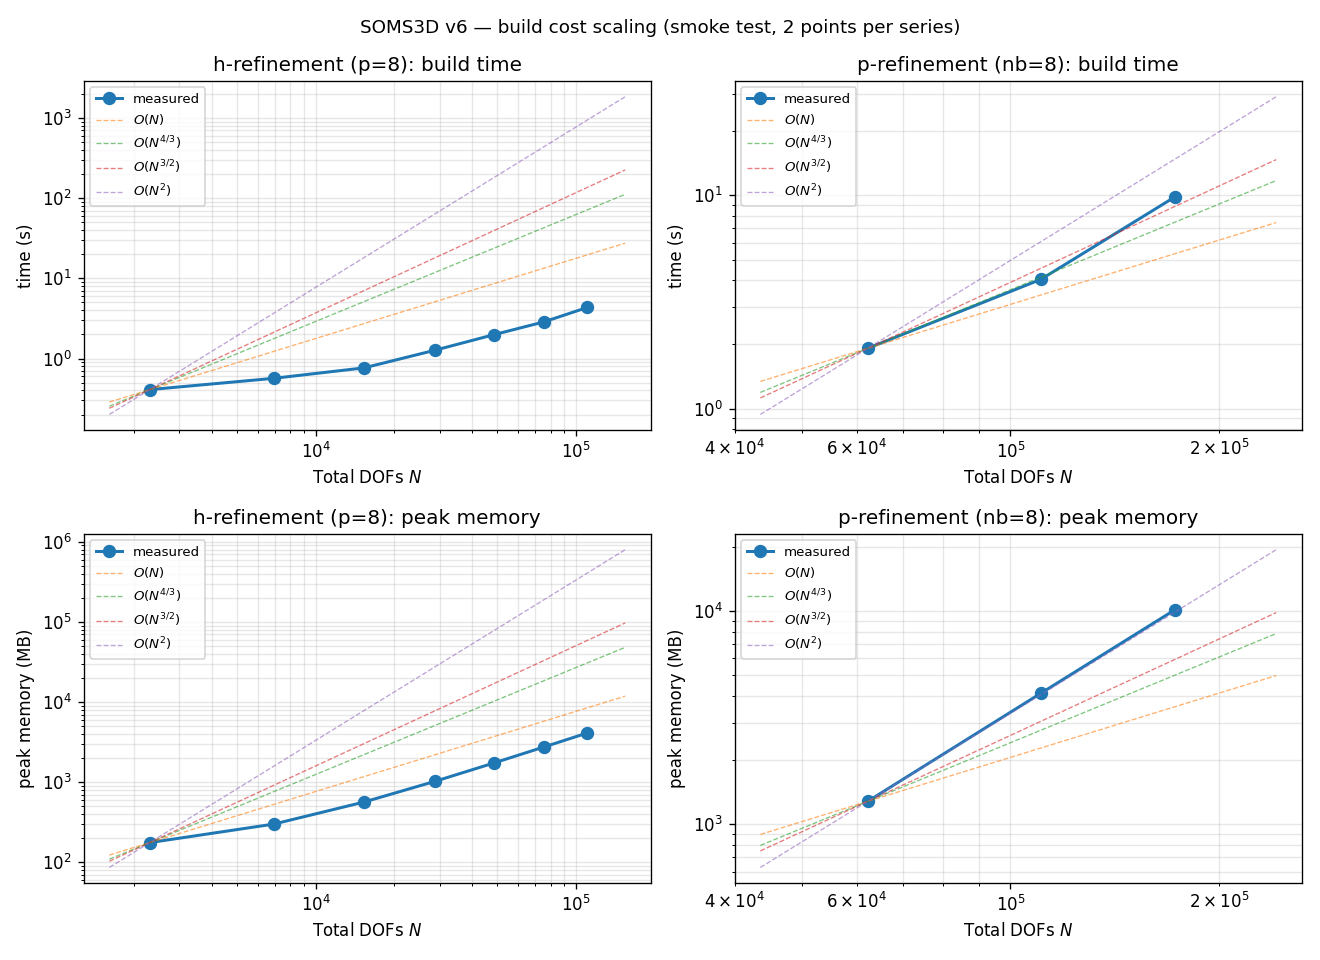
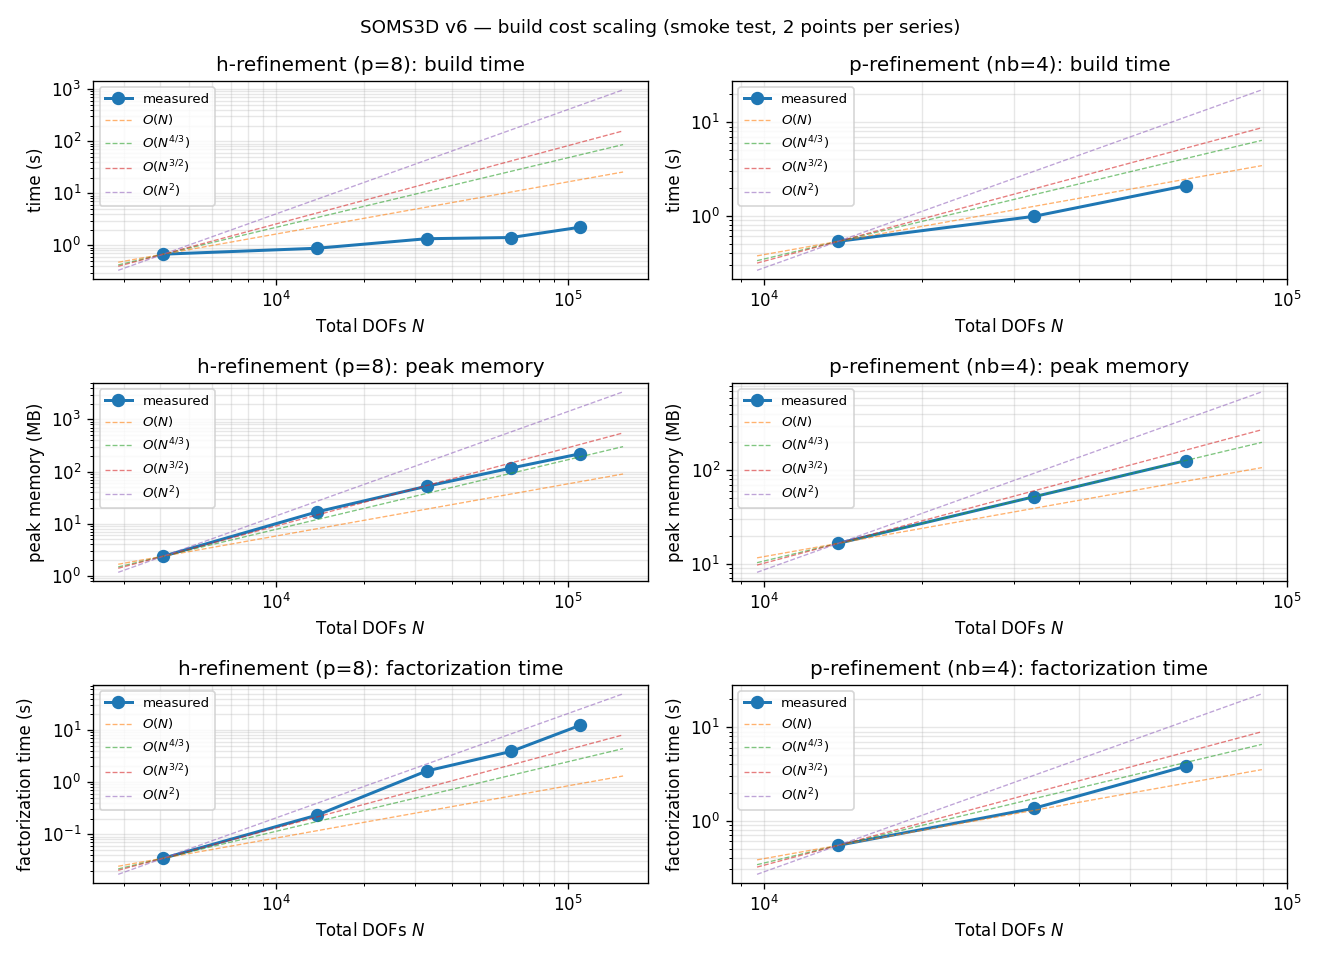
further improvements to SOMSsolver + benchmarking factor stage

diff --git a/test/rkprop/SOMS3D_csr.py b/test/rkprop/SOMS3D_csr.py
@@ -1191,16 +1191,92 @@ def construct_SOMS_sparse(nxy, nyz, nxz, md_vec, b_vec, n_dofs, tiling,
     Otherwise local_S_fast is called per face using the precomputed
     per-direction contexts geom[dir], diffops[dir], ops_pkg[dir].
     """
-    # COO triplet accumulation (much faster than LIL for large n_dofs).
-    # Identity rows for ALL DOFs are added once at the end via sp.eye().
-    rows_list = []
-    cols_list = []
-    data_list = []
+    # --- Direct CSR construction: build data/indices/indptr directly ---
+    # No COO triplet intermediate. Rows are written in monotonically increasing
+    # order (since target = arange(ctr, ctr+nT) and ctr only grows), so we can
+    # populate the CSR arrays linearly.
+    interior_mask = ~b_vec
+    n_int_md0 = int(np.sum(interior_mask & (md_vec == 0)))
+    n_int_md1 = int(np.sum(interior_mask & (md_vec == 1)))
+    n_int_md2 = int(np.sum(interior_mask & (md_vec == 2)))
+
+    # Per-face off-diagonal block size (target rows * source cols):
+    #   md=0 (yz centerline):  target=nyz, source = 2*nyz + 4*nxz + 4*nxy
+    #   md=1 (xz centerline):  target=nxz, source = 4*nyz + 2*nxz + 4*nxy
+    #   md=2 (xy centerline):  target=nxy, source = 4*nyz + 4*nxz + 2*nxy
+    block_md0 = nyz * (2 * nyz + 4 * nxz + 4 * nxy)
+    block_md1 = nxz * (4 * nyz + 2 * nxz + 4 * nxy)
+    block_md2 = nxy * (4 * nyz + 4 * nxz + 2 * nxy)
+
+    total_nnz_off = (
+        n_int_md0 * block_md0
+        + n_int_md1 * block_md1
+        + n_int_md2 * block_md2
+    )
+    # Total nnz including diagonal (+1 per row).
+    total_nnz = total_nnz_off + n_dofs
+
+    data = np.empty(total_nnz, dtype=np.float64)
+    indices = np.empty(total_nnz, dtype=np.int32)
+    indptr = np.empty(n_dofs + 1, dtype=np.int32)
+    indptr[0] = 0
+    nnz_written = 0   # running write offset into data / indices
+
     ftild = np.zeros(n_dofs)
     ctr = 0
     nFYZ = tiling[1] * tiling[2] * nyz
     nFXZ = tiling[2] * nxz
     nFXY = (tiling[2] + 1) * nxy
+
+    def _write_interior_face(target, source, S_local):
+        """
+        Write nT rows for an interior centerline face directly into the CSR
+        arrays. Each row gets `source` columns plus the diagonal column merged
+        in sorted order. data values: -S_local entries for source columns,
+        +1.0 for the diagonal.
+        """
+        nonlocal nnz_written
+        nT = len(target)
+        nS = len(source)
+        # Sort source columns once per face; reuse permutation across all nT rows.
+        sort_perm = np.argsort(source, kind='stable')
+        source_sorted = source[sort_perm]
+        S_sorted = -S_local[:, sort_perm]   # shape (nT, nS), columns aligned to source_sorted
+
+        # For each row r = target[k] = ctr + k, the diagonal column is r itself.
+        # Find where r would be inserted into source_sorted to keep monotone order.
+        # Vectorized: for the target range, compute insertion positions.
+        ins_positions = np.searchsorted(source_sorted, target)   # length nT
+        # Each row writes (nS + 1) entries: nS source values + 1 diagonal.
+        # Layout in (data, indices) starting at nnz_written:
+        #   row 0: source_sorted[:ins0], r0, source_sorted[ins0:]   (+1.0 at the inserted slot)
+        #   row 1: ...
+        # We write row by row to keep the code straightforward.
+        for k in range(nT):
+            ins = int(ins_positions[k])
+            r = int(target[k])
+            base = nnz_written
+            # Left part: source columns before insertion point
+            indices[base:base + ins] = source_sorted[:ins]
+            data[base:base + ins] = S_sorted[k, :ins]
+            # Diagonal entry
+            indices[base + ins] = r
+            data[base + ins] = 1.0
+            # Right part: source columns after insertion point
+            indices[base + ins + 1:base + nS + 1] = source_sorted[ins:]
+            data[base + ins + 1:base + nS + 1] = S_sorted[k, ins:]
+            nnz_written += nS + 1
+            indptr[r + 1] = nnz_written
+
+    def _write_boundary_face(target):
+        """A boundary face row has only the diagonal entry."""
+        nonlocal nnz_written
+        for k in range(len(target)):
+            r = int(target[k])
+            indices[nnz_written] = r
+            data[nnz_written] = 1.0
+            nnz_written += 1
+            indptr[r + 1] = nnz_written
 
     for indxyz in range(len(md_vec)):
         match md_vec[indxyz]:
@@ -1242,11 +1318,11 @@ def construct_SOMS_sparse(nxy, nyz, nxz, md_vec, b_vec, n_dofs, tiling,
                             2, geom[2], diffops[2], ops_pkg[2],
                             coeffs, origin, forcing,
                         )
-                    rows_list.append(np.repeat(target, len(source)))
-                    cols_list.append(np.tile(source, len(target)))
-                    data_list.append((-S_local).ravel())
+                    _write_interior_face(target, source, S_local)
                     if b_local is not None:
                         ftild[target] += b_local
+                else:
+                    _write_boundary_face(target)
             case 1:
                 target = np.arange(ctr, ctr + nxz)
                 step_front = nxz * tiling[2] + nxy * (tiling[2] + 1)
@@ -1285,11 +1361,11 @@ def construct_SOMS_sparse(nxy, nyz, nxz, md_vec, b_vec, n_dofs, tiling,
                             1, geom[1], diffops[1], ops_pkg[1],
                             coeffs, origin, forcing,
                         )
-                    rows_list.append(np.repeat(target, len(source)))
-                    cols_list.append(np.tile(source, len(target)))
-                    data_list.append((-S_local).ravel())
+                    _write_interior_face(target, source, S_local)
                     if b_local is not None:
                         ftild[target] += b_local
+                else:
+                    _write_boundary_face(target)
             case 0:
                 target = np.arange(ctr, ctr + nyz)
                 step_right = (
@@ -1333,22 +1409,15 @@ def construct_SOMS_sparse(nxy, nyz, nxz, md_vec, b_vec, n_dofs, tiling,
                             0, geom[0], diffops[0], ops_pkg[0],
                             coeffs, origin, forcing,
                         )
-                    rows_list.append(np.repeat(target, len(source)))
-                    cols_list.append(np.tile(source, len(target)))
-                    data_list.append((-S_local).ravel())
+                    _write_interior_face(target, source, S_local)
                     if b_local is not None:
                         ftild[target] += b_local
-    # Build CSR from COO triplets + identity on diagonal.
-    # target and source never overlap (a centerline face is never its own
-    # surrounding face), so adding sp.eye does not collide with assigned blocks.
-    if rows_list:
-        rows = np.concatenate(rows_list)
-        cols = np.concatenate(cols_list)
-        data = np.concatenate(data_list)
-        Stot = sp.csr_matrix((data, (rows, cols)), shape=(n_dofs, n_dofs))
-    else:
-        Stot = sp.csr_matrix((n_dofs, n_dofs))
-    Stot = Stot + sp.eye(n_dofs, format='csr')
+                else:
+                    _write_boundary_face(target)
+    assert nnz_written == total_nnz, \
+        f"nnz mismatch: wrote {nnz_written}, expected {total_nnz}"
+    # Build CSR directly from preallocated data/indices/indptr.
+    Stot = sp.csr_matrix((data, indices, indptr), shape=(n_dofs, n_dofs))
     return Stot, ftild
 
 

diff --git a/test/rkprop/benchmarkSOMS.py b/test/rkprop/benchmarkSOMS.py
@@ -22,7 +22,7 @@ import tracemalloc
 
 import numpy as np
 import matplotlib.pyplot as plt
-
+import mumps
 sys.path.insert(0, '/home/claude/soms')
 from SOMS3D_csr import SOMS_solver_sparse
 
@@ -30,7 +30,13 @@ from SOMS3D_csr import SOMS_solver_sparse
 # Constant-coefficient Helmholtz (just a pre-defined problem to call the solver on).
 K = 1.0
 COEFFS = {'c11': 1.0, 'c22': 1.0, 'c33': 1.0, 'c': K ** 2}
-
+def solve_with_mumps(Sii, rhs):
+    """Solve Sii @ u = rhs using python-mumps."""
+    ctx = mumps.Context()
+    ctx.analyze(Sii)             # symbolic factorization (uses sparsity pattern only)
+    ctx.factor(Sii)              # numeric factorization
+    x = ctx.solve(rhs)           # solve, returns the solution
+    return x
 
 def run_one(p, nb):
     """
@@ -44,11 +50,21 @@ def run_one(p, nb):
         p, p, p, nb, nb, nb,
         coeffs=COEFFS, ct_pde=True, forcing=None,
     )
+    
     elapsed = time.perf_counter() - t0
     _, peak = tracemalloc.get_traced_memory()
     tracemalloc.stop()
-    N = XYtot.shape[0]
-    return N, elapsed, peak
+    N = (nb*p)**3
+    mem = Sii.data.nbytes + Sii.indices.nbytes + Sii.indptr.nbytes
+    mem_tot = mem
+    mem_tot+= Sib.data.nbytes + Sib.indices.nbytes + Sib.indptr.nbytes
+    mem_tot+=   ftild.nbytes\
+                +XYtot.nbytes
+    tic = time.perf_counter()
+    b = np.random.standard_normal((Sii.shape[0],))
+    u = solve_with_mumps(Sii,b)
+    elapsed_solve = time.perf_counter()-tic
+    return N, elapsed,elapsed_solve, peak,mem,mem_tot
 
 
 def add_reference_lines(ax, Ns, ys, exponents, labels):
@@ -70,35 +86,49 @@ def add_reference_lines(ax, Ns, ys, exponents, labels):
 def main():
     # --- h-refinement: vary nb, p fixed ---
     p_fixed = 8
-    nb_list = [2, 3,4,5,6,7,8]                       # two small sizes
+    nb_list = [2,3,4,5,6]                       # two small sizes
     h_results = []
     print(f"h-refinement (p = {p_fixed}):")
     for nb in nb_list:
-        N, t, mem = run_one(p_fixed, nb)
-        print(f"  nb={nb}  N={N:>6}  time={t:.3f}s  mem={mem/1e6:.1f}MB")
-        h_results.append((N, t, mem))
+        N, elapsed,elapsed_solve, peak,mem,mem_tot = run_one(p_fixed, nb)
+        print(f"    nb={nb}\
+                    N={N:>6} time_construct={elapsed:.3f}s\
+                    time_solve={elapsed_solve:.3f}s\
+                    mem_tot={mem_tot/1e6:.1f}MB\
+                    peak_mem={peak/1e6:.1f}MB    ")
+        h_results.append((N, elapsed,elapsed_solve, peak,mem))
 
     # --- p-refinement: vary p, nb fixed ---
-    nb_fixed = 8
+    nb_fixed = 4
     p_list = [6,8,10]                        # two small sizes
     p_results = []
     print(f"\np-refinement (nb = {nb_fixed}):")
     for p in p_list:
-        N, t, mem = run_one(p, nb_fixed)
-        print(f"  p={p}   N={N:>6}  time={t:.3f}s  mem={mem/1e6:.1f}MB")
-        p_results.append((N, t, mem))
+        N, elapsed,elapsed_solve, peak,mem = run_one(p, nb_fixed)
+        print(f"    p={p}\
+                    N={N:>6} time_construct={elapsed:.3f}s\
+                    time_solve={elapsed_solve:.3f}s\
+                    mem={mem/1e6:.1f}MB\
+                    peak_mem={peak/1e6:.1f}MB    ")
+        p_results.append((N, elapsed,elapsed_solve, peak,mem))
 
     # --- Plot ---
-    fig, axes = plt.subplots(2, 2, figsize=(11, 8))
+    fig, axes = plt.subplots(3, 2, figsize=(11, 8))
     exponents = [1.0, 4.0 / 3.0, 1.5, 2.0]
     labels = ['$O(N)$', '$O(N^{4/3})$', '$O(N^{3/2})$', '$O(N^2)$']
 
-    def plot_panel(ax, results, title, ylabel, ydiv=1.0):
+    def plot_panel(ax, results, title, ylabel, kk=0):
         if not results:
             return
         Ns = np.array([r[0] for r in results])
-        ys_raw = np.array([r[1] for r in results]) if ydiv == 1.0 \
-                 else np.array([r[2] for r in results]) / ydiv
+        if kk == 0:
+            ys_raw = np.array([r[1] for r in results]) 
+        elif kk == 1:
+            ys_raw = np.array([r[4]/1e6 for r in results]) 
+        elif kk == 2:
+            ys_raw = np.array([r[2] for r in results]) 
+        else:
+            raise KeyError("which must be 0, 1 or 2")
         ax.loglog(Ns, ys_raw, 'o-', linewidth=1.8, markersize=7, label='measured')
         add_reference_lines(ax, Ns, ys_raw, exponents, labels)
         ax.set_xlabel('Total DOFs $N$')
@@ -112,9 +142,13 @@ def main():
     plot_panel(axes[0, 1], p_results, f'p-refinement (nb={nb_fixed}): build time',
                'time (s)')
     plot_panel(axes[1, 0], h_results, f'h-refinement (p={p_fixed}): peak memory',
-               'peak memory (MB)', ydiv=1e6)
+               'peak memory (MB)', kk=1)
     plot_panel(axes[1, 1], p_results, f'p-refinement (nb={nb_fixed}): peak memory',
-               'peak memory (MB)', ydiv=1e6)
+               'peak memory (MB)', kk=1)
+    plot_panel(axes[2, 0], h_results, f'h-refinement (p={p_fixed}): factorization time',
+               'factorization time (s)', kk=2)
+    plot_panel(axes[2, 1], p_results, f'p-refinement (nb={nb_fixed}): factorization time',
+               'factorization time (s)', kk=2)
 
     fig.suptitle('SOMS3D v6 — build cost scaling (smoke test, 2 points per series)',
                  fontsize=11)